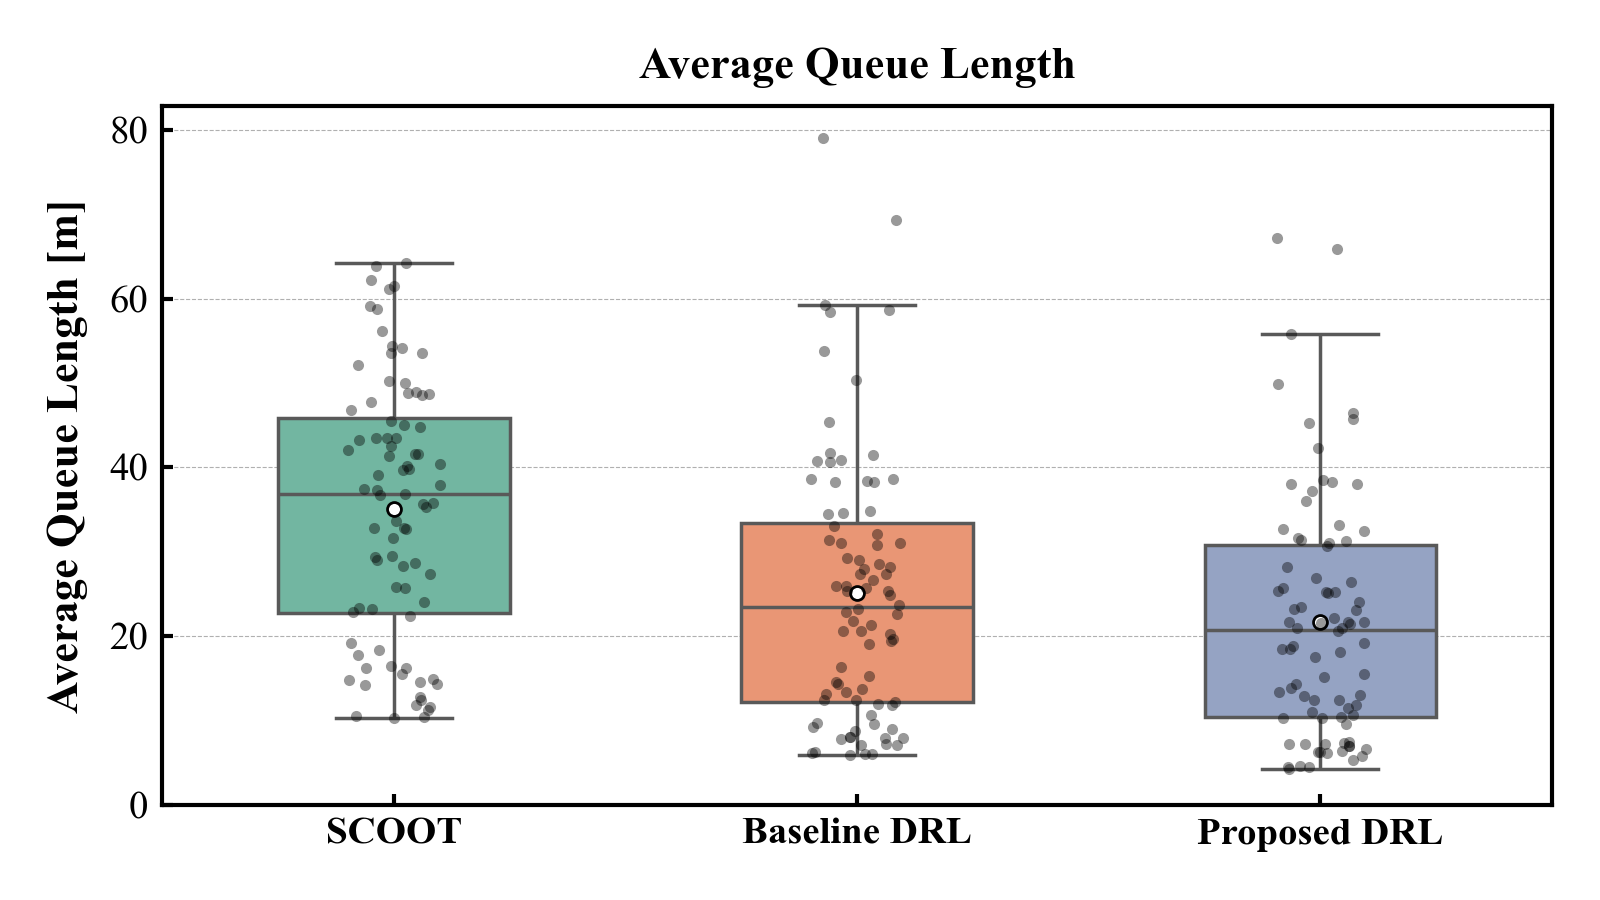
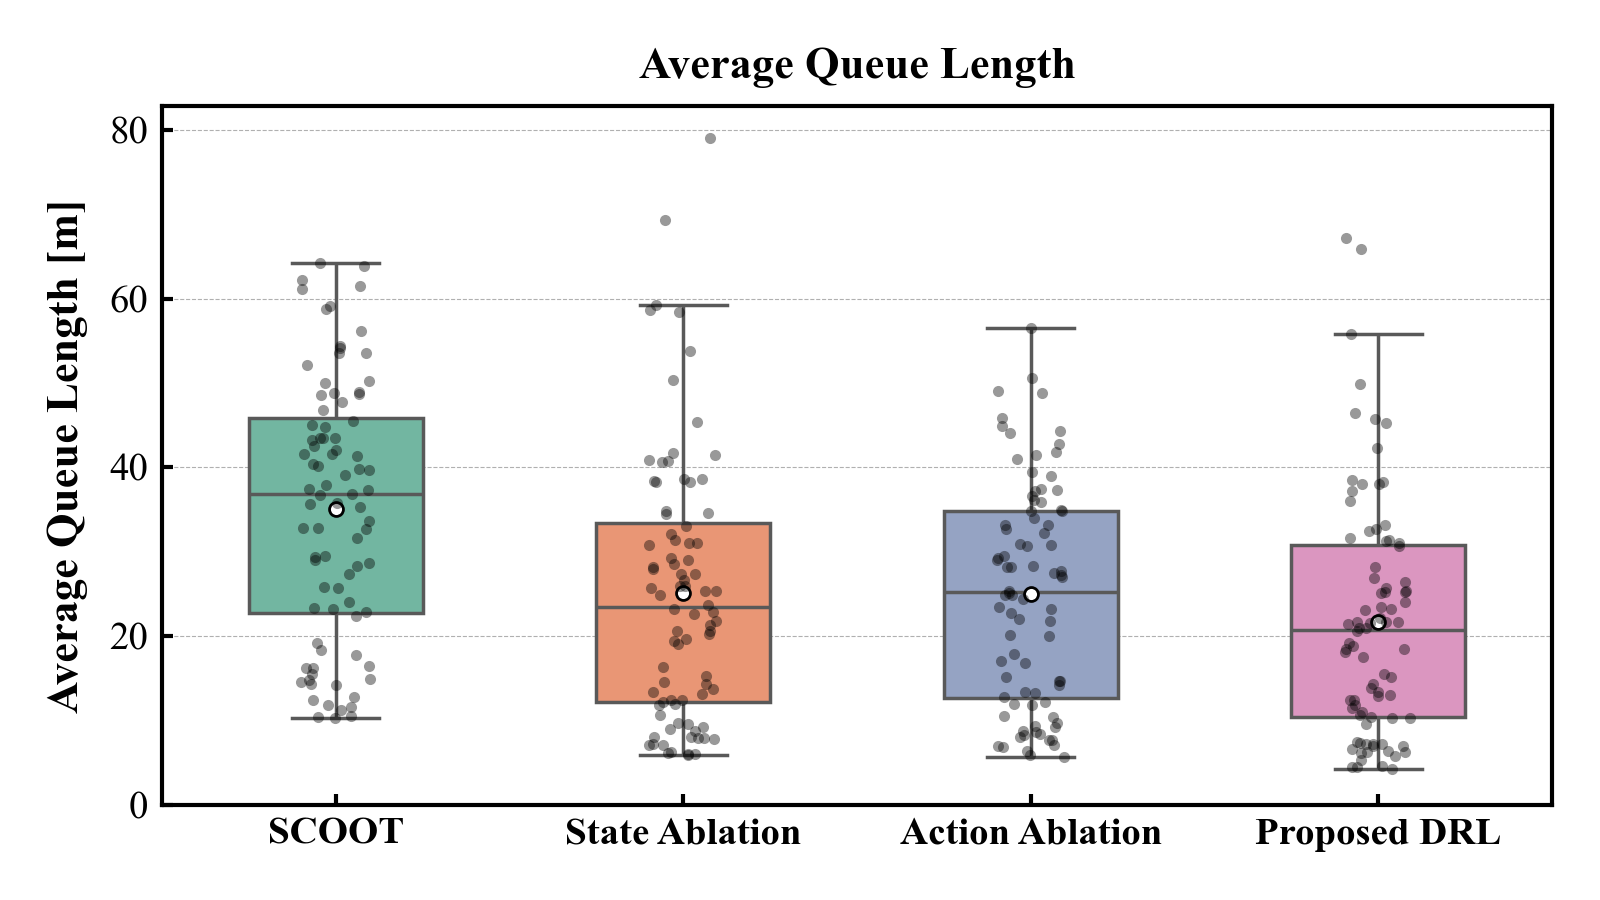
add 4-phase results

diff --git a/misc/analysis/performance_metric_box_plots/multiple/plot.py b/misc/analysis/performance_metric_box_plots/multiple/plot.py
@@ -141,13 +141,19 @@ def getPerformanceMetricDf(config_yaml):
 
                 vehicle_state_info = method_config['state']['vehicle']
 
-                if all(vehicle_state_info[key] for key in ['position', 'speed', 'route']):
-                    method_name = config_yaml['figure']['x_axis']['label']['drl']['micro']
-                elif all(not vehicle_state_info[key] for key in ['position', 'speed', 'route']):
+                if all(not vehicle_state_info[key] for key in ['position', 'speed', 'route']):
                     method_name = config_yaml['figure']['x_axis']['label']['drl']['macro']
+
+                elif all(vehicle_state_info[key] for key in ['position', 'speed', 'route']) and method_config['num_phases'] == 4:
+                    method_name = config_yaml['figure']['x_axis']['label']['drl']['4-phase']
+
+                elif all(vehicle_state_info[key] for key in ['position', 'speed', 'route']) and method_config['num_phases'] == 17:
+                    method_name = config_yaml['figure']['x_axis']['label']['drl']['proposed']
+
                 else:
                     continue
-
+                
+                del method_config['num_phases']
                 del vehicle_state_info['position'], vehicle_state_info['speed'], vehicle_state_info['route']
 
                 if method_config != config_yaml['drl']:
@@ -203,11 +209,15 @@ def getOrderList(config_yaml, performance_metric):
         for num_phases in [4, 8, 17]:
             if config_yaml['target']['control_method']['mpc'][f"{num_phases}-phase"]:
                 order_list.append(config_yaml['figure']['x_axis']['label']['mpc'][f"{num_phases}-phase"])
+
     if config_yaml['target']['control_method']['drl']['macro']:
         order_list.append(config_yaml['figure']['x_axis']['label']['drl']['macro'])
 
-    if config_yaml['target']['control_method']['drl']['micro']:
-        order_list.append(config_yaml['figure']['x_axis']['label']['drl']['micro'])
+    if config_yaml['target']['control_method']['drl']['4-phase']:
+        order_list.append(config_yaml['figure']['x_axis']['label']['drl']['4-phase'])
+
+    if config_yaml['target']['control_method']['drl']['proposed']:
+        order_list.append(config_yaml['figure']['x_axis']['label']['drl']['proposed'])
     
     return order_list
 
@@ -215,13 +225,19 @@ def getColorMap(config_yaml):
     method_list = []
     if config_yaml['target']['control_method']['scoot']:
         method_list.append(config_yaml['figure']['x_axis']['label']['scoot'])
+
     for num_phases in [4, 8, 17]:
         if config_yaml['target']['control_method']['mpc'][f"{num_phases}-phase"]:
             method_list.append(config_yaml['figure']['x_axis']['label']['mpc'][f"{num_phases}-phase"])
+
     if config_yaml['target']['control_method']['drl']['macro']:
         method_list.append(config_yaml['figure']['x_axis']['label']['drl']['macro'])
-    if config_yaml['target']['control_method']['drl']['micro']:
-        method_list.append(config_yaml['figure']['x_axis']['label']['drl']['micro'])
+
+    if config_yaml['target']['control_method']['drl']['4-phase']:
+        method_list.append(config_yaml['figure']['x_axis']['label']['drl']['4-phase'])
+
+    if config_yaml['target']['control_method']['drl']['proposed']:
+        method_list.append(config_yaml['figure']['x_axis']['label']['drl']['proposed'])
     
     color_list = sns.color_palette('Set2', n_colors=len(method_list))
     return dict(zip(method_list, color_list))

diff --git a/misc/analysis/performance_metric_box_plots/single/plot.py b/misc/analysis/performance_metric_box_plots/single/plot.py
@@ -141,13 +141,19 @@ def getPerformanceMetricDf(config_yaml):
 
                 vehicle_state_info = method_config['state']['vehicle']
 
-                if all(vehicle_state_info[key] for key in ['position', 'speed', 'route']):
-                    method_name = config_yaml['figure']['x_axis']['label']['drl']['micro']
-                elif all(not vehicle_state_info[key] for key in ['position', 'speed', 'route']):
+                if all(not vehicle_state_info[key] for key in ['position', 'speed', 'route']):
                     method_name = config_yaml['figure']['x_axis']['label']['drl']['macro']
+                
+                elif all(vehicle_state_info[key] for key in ['position', 'speed', 'route']) and method_config['num_phases'] == 4:
+                    method_name = config_yaml['figure']['x_axis']['label']['drl']['4-phase']
+                
+                elif all(vehicle_state_info[key] for key in ['position', 'speed', 'route']) and method_config['num_phases'] == 17:
+                    method_name = config_yaml['figure']['x_axis']['label']['drl']['proposed']
+
                 else:
                     continue
-
+                
+                del method_config['num_phases']
                 del vehicle_state_info['position'], vehicle_state_info['speed'], vehicle_state_info['route']
 
                 if method_config != config_yaml['drl']:
@@ -198,8 +204,11 @@ def getOrderList(config_yaml, performance_metric):
     if config_yaml['target']['control_method']['drl']['macro']:
         order_list.append(config_yaml['figure']['x_axis']['label']['drl']['macro'])
 
-    if config_yaml['target']['control_method']['drl']['micro']:
-        order_list.append(config_yaml['figure']['x_axis']['label']['drl']['micro'])
+    if config_yaml['target']['control_method']['drl']['4-phase']:
+        order_list.append(config_yaml['figure']['x_axis']['label']['drl']['4-phase'])
+
+    if config_yaml['target']['control_method']['drl']['proposed']:
+        order_list.append(config_yaml['figure']['x_axis']['label']['drl']['proposed'])
     
     return order_list
 
@@ -212,8 +221,10 @@ def getColorMap(config_yaml):
             method_list.append(config_yaml['figure']['x_axis']['label']['mpc'][f"{num_phases}-phase"])
     if config_yaml['target']['control_method']['drl']['macro']:
         method_list.append(config_yaml['figure']['x_axis']['label']['drl']['macro'])
-    if config_yaml['target']['control_method']['drl']['micro']:
-        method_list.append(config_yaml['figure']['x_axis']['label']['drl']['micro'])
+    if config_yaml['target']['control_method']['drl']['4-phase']:
+        method_list.append(config_yaml['figure']['x_axis']['label']['drl']['4-phase'])
+    if config_yaml['target']['control_method']['drl']['proposed']:
+        method_list.append(config_yaml['figure']['x_axis']['label']['drl']['proposed'])
     
     color_list = sns.color_palette('Set2', n_colors=len(method_list))
     return dict(zip(method_list, color_list))
